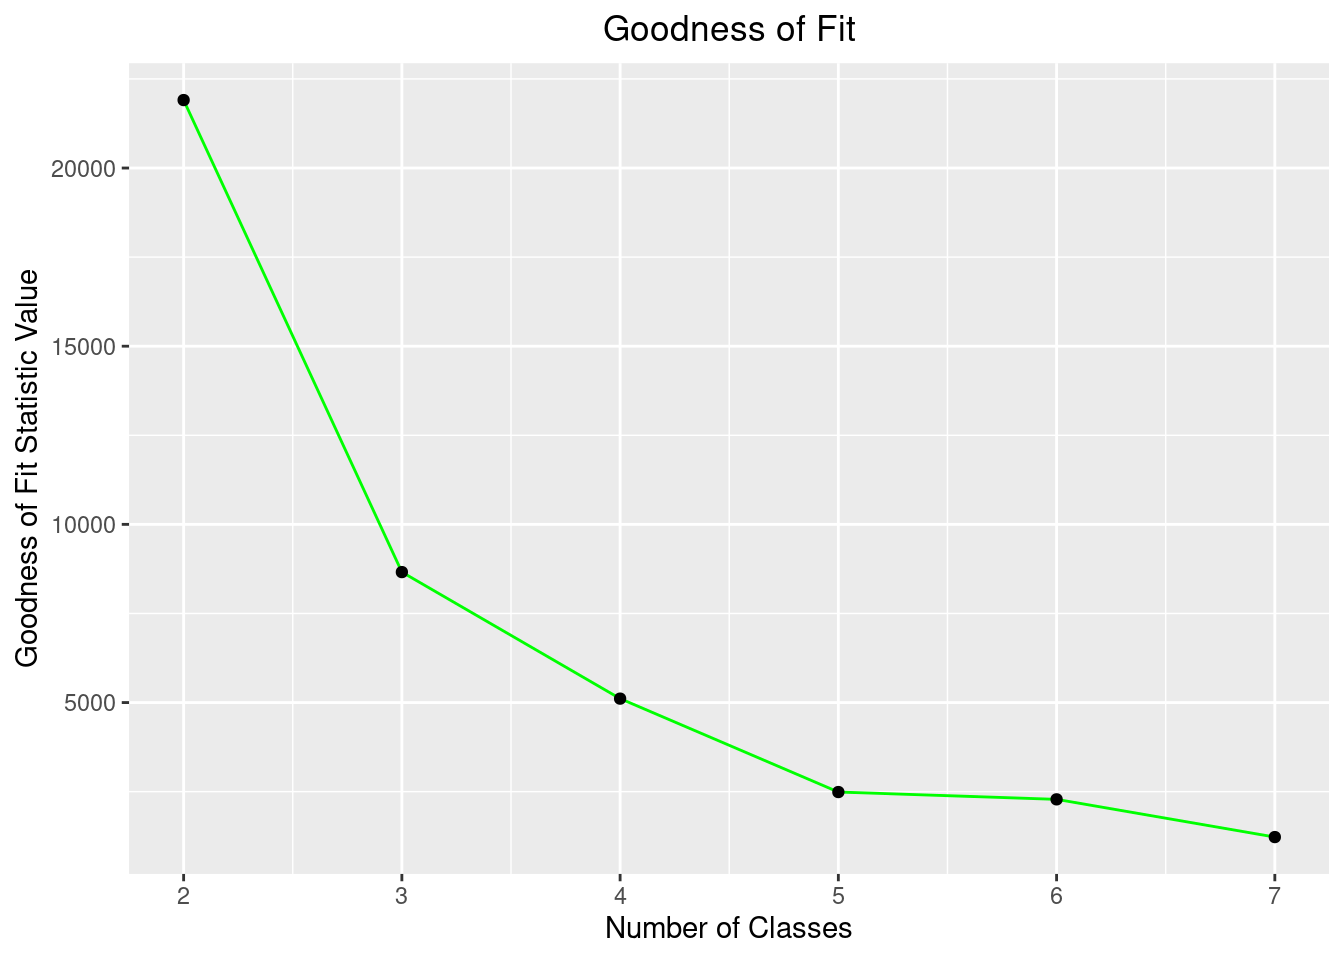
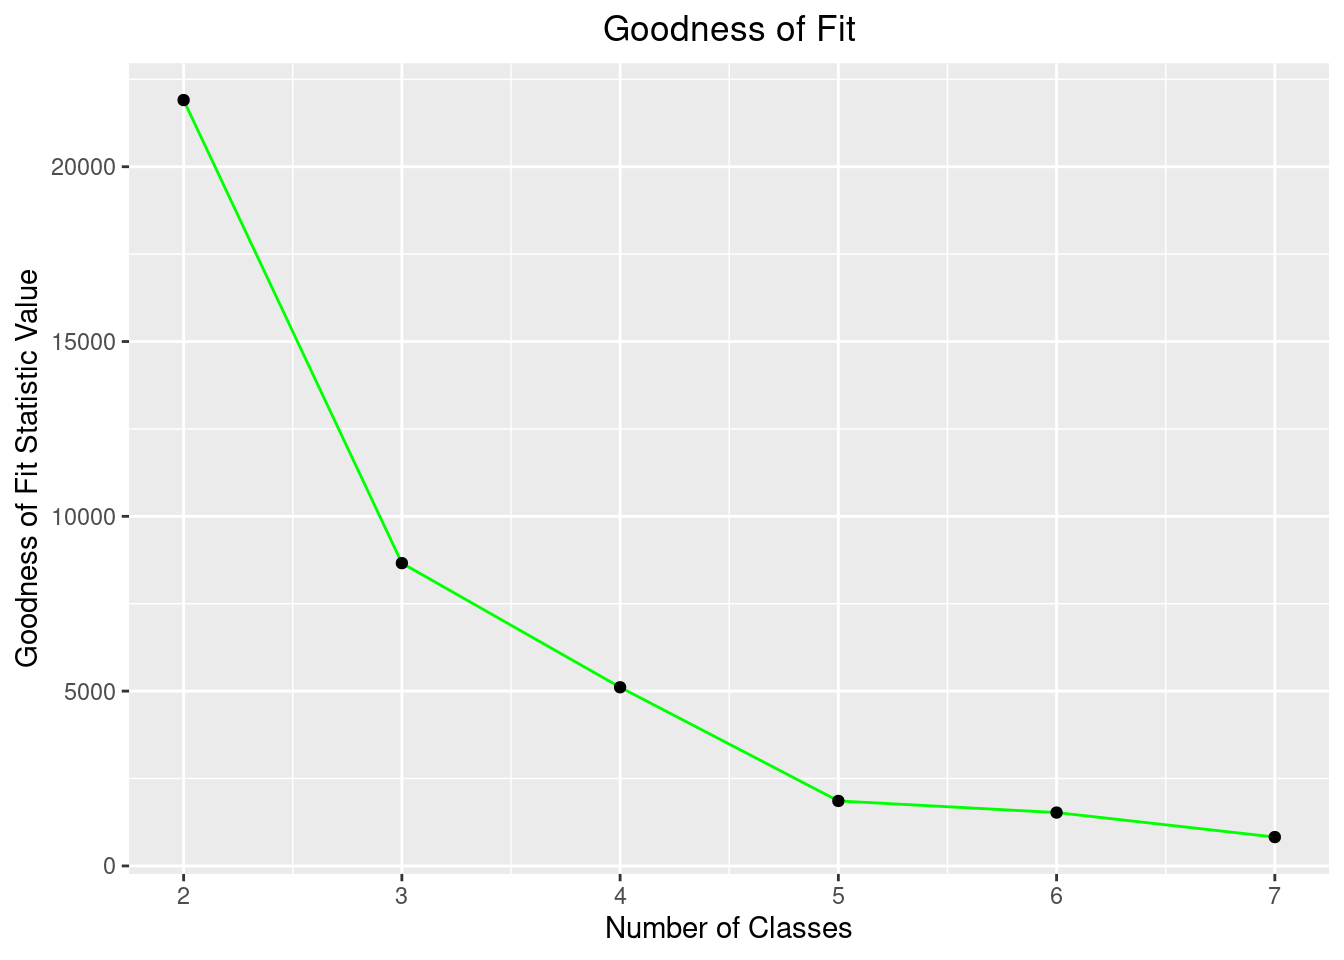
Adding definition and equation for method

diff --git a/index.html b/index.html
@@ -654,37 +654,37 @@ div.csl-indent {
    <td style="text-align:right;font-weight: bold;color: white !important;background-color: steelblue !important;"> 2 </td>
    <td style="text-align:right;background-color: lavender !important;"> 1275.0796 </td>
    <td style="text-align:right;background-color: lavender !important;"> 1350.918 </td>
-   <td style="text-align:right;background-color: lavender !important;"> 21906.550 </td>
+   <td style="text-align:right;background-color: lavender !important;"> 21906.5485 </td>
   </tr>
   <tr>
    <td style="text-align:right;font-weight: bold;color: white !important;background-color: steelblue !important;"> 3 </td>
    <td style="text-align:right;background-color: lavender !important;"> 1102.0079 </td>
    <td style="text-align:right;background-color: lavender !important;"> 1217.073 </td>
-   <td style="text-align:right;background-color: lavender !important;"> 8660.619 </td>
+   <td style="text-align:right;background-color: lavender !important;"> 8660.6195 </td>
   </tr>
   <tr>
    <td style="text-align:right;font-weight: bold;color: white !important;background-color: steelblue !important;"> 4 </td>
    <td style="text-align:right;background-color: lavender !important;"> 1010.0118 </td>
    <td style="text-align:right;background-color: lavender !important;"> 1164.304 </td>
-   <td style="text-align:right;background-color: lavender !important;"> 5109.766 </td>
+   <td style="text-align:right;background-color: lavender !important;"> 5109.7659 </td>
   </tr>
   <tr>
    <td style="text-align:right;font-weight: bold;color: white !important;background-color: steelblue !important;"> 5 </td>
-   <td style="text-align:right;background-color: lavender !important;"> 983.2301 </td>
-   <td style="text-align:right;background-color: lavender !important;"> 1176.749 </td>
-   <td style="text-align:right;background-color: lavender !important;"> 2488.471 </td>
+   <td style="text-align:right;background-color: lavender !important;"> 983.3932 </td>
+   <td style="text-align:right;background-color: lavender !important;"> 1176.912 </td>
+   <td style="text-align:right;background-color: lavender !important;"> 1858.3882 </td>
   </tr>
   <tr>
    <td style="text-align:right;font-weight: bold;color: white !important;background-color: steelblue !important;"> 6 </td>
-   <td style="text-align:right;background-color: lavender !important;"> 965.9335 </td>
-   <td style="text-align:right;background-color: lavender !important;"> 1198.679 </td>
-   <td style="text-align:right;background-color: lavender !important;"> 2283.357 </td>
+   <td style="text-align:right;background-color: lavender !important;"> 967.9640 </td>
+   <td style="text-align:right;background-color: lavender !important;"> 1200.710 </td>
+   <td style="text-align:right;background-color: lavender !important;"> 1525.9712 </td>
   </tr>
   <tr>
    <td style="text-align:right;font-weight: bold;color: white !important;background-color: steelblue !important;"> 7 </td>
-   <td style="text-align:right;background-color: lavender !important;"> 958.7507 </td>
-   <td style="text-align:right;background-color: lavender !important;"> 1230.723 </td>
-   <td style="text-align:right;background-color: lavender !important;"> 1224.750 </td>
+   <td style="text-align:right;background-color: lavender !important;"> 958.0054 </td>
+   <td style="text-align:right;background-color: lavender !important;"> 1229.978 </td>
+   <td style="text-align:right;background-color: lavender !important;"> 824.9267 </td>
   </tr>
 </tbody>
 </table>
@@ -773,11 +773,11 @@ div.csl-indent {
 <tbody>
   <tr>
    <td style="text-align:left;font-weight: bold;color: white !important;background-color: steelblue !important;"> 5-Class Model </td>
-   <td style="text-align:right;background-color: lavender !important;"> 4.136046 </td>
+   <td style="text-align:right;background-color: lavender !important;"> 4.137245 </td>
   </tr>
   <tr>
    <td style="text-align:left;font-weight: bold;color: white !important;background-color: steelblue !important;"> 6-Class Model </td>
-   <td style="text-align:right;background-color: lavender !important;"> 3.902091 </td>
+   <td style="text-align:right;background-color: lavender !important;"> 3.912422 </td>
   </tr>
 </tbody>
 </table>
@@ -948,16 +948,16 @@ div.csl-indent {
 <tbody>
   <tr>
    <td style="text-align:left;font-weight: bold;color: white !important;background-color: steelblue !important;"> Original 5-Class Model </td>
-   <td style="text-align:right;background-color: lavender !important;"> 983.2301 </td>
-   <td style="text-align:right;"> 1176.749 </td>
-   <td style="text-align:right;"> 2488.471 </td>
-   <td style="text-align:right;"> 4.136046 </td>
+   <td style="text-align:right;background-color: lavender !important;"> 983.3932 </td>
+   <td style="text-align:right;"> 1176.912 </td>
+   <td style="text-align:right;"> 1858.388 </td>
+   <td style="text-align:right;"> 4.137245 </td>
   </tr>
   <tr>
    <td style="text-align:left;font-weight: bold;color: white !important;background-color: steelblue !important;"> Adjusted 5-Class Model </td>
    <td style="text-align:right;background-color: lavender !important;"> 954.2627 </td>
    <td style="text-align:right;"> 1134.706 </td>
-   <td style="text-align:right;"> 1568.741 </td>
+   <td style="text-align:right;"> 1568.740 </td>
    <td style="text-align:right;"> 4.043642 </td>
   </tr>
 </tbody>
